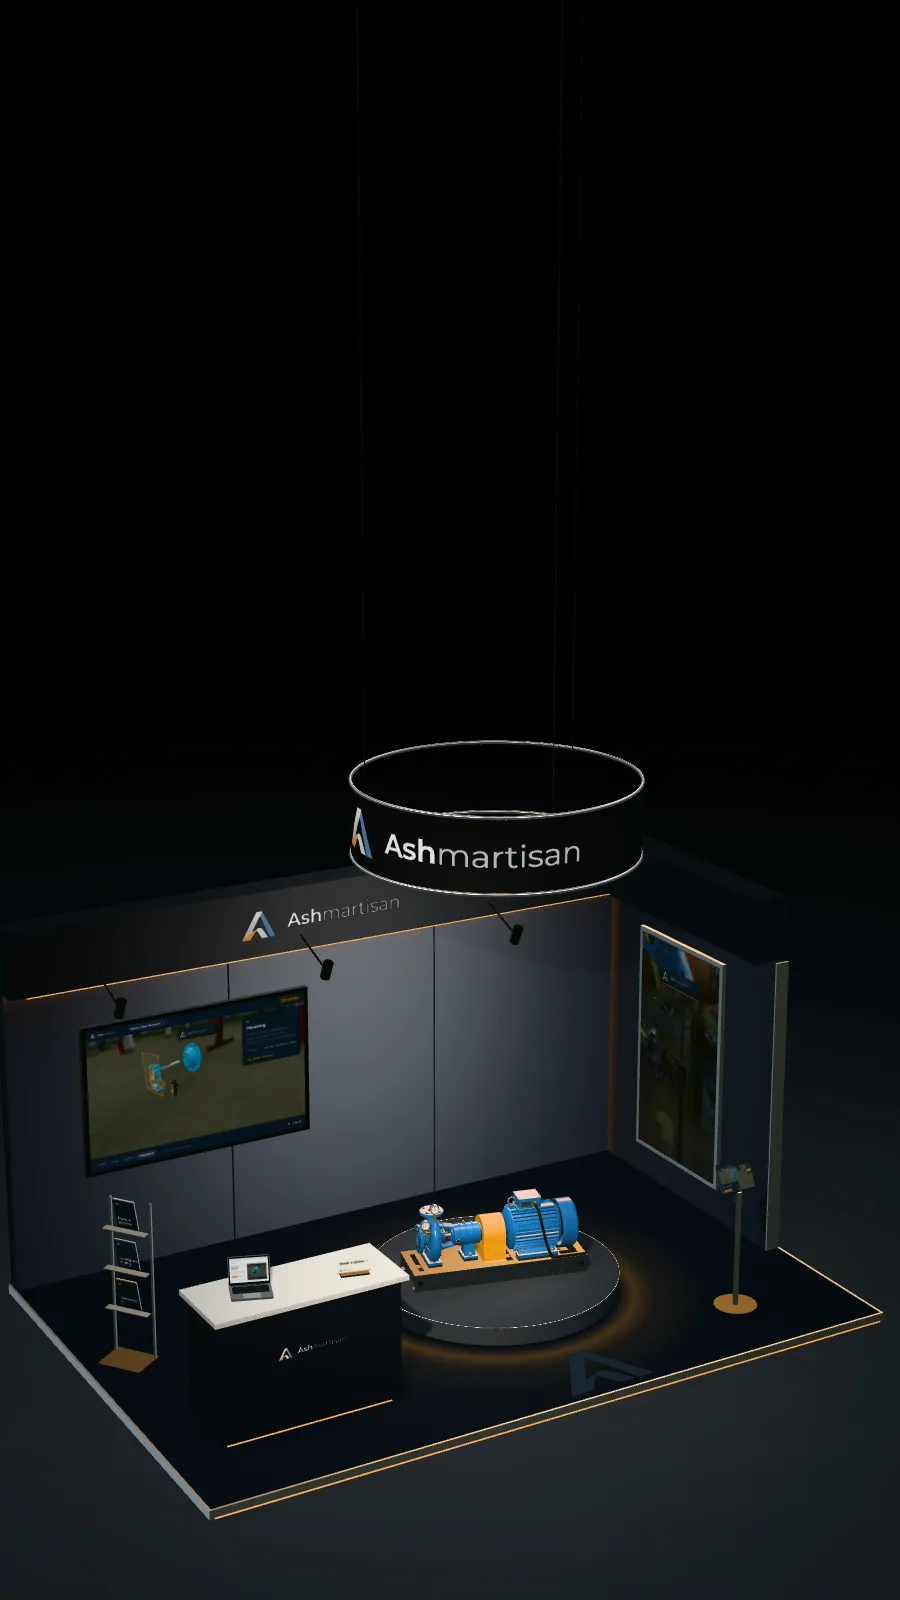
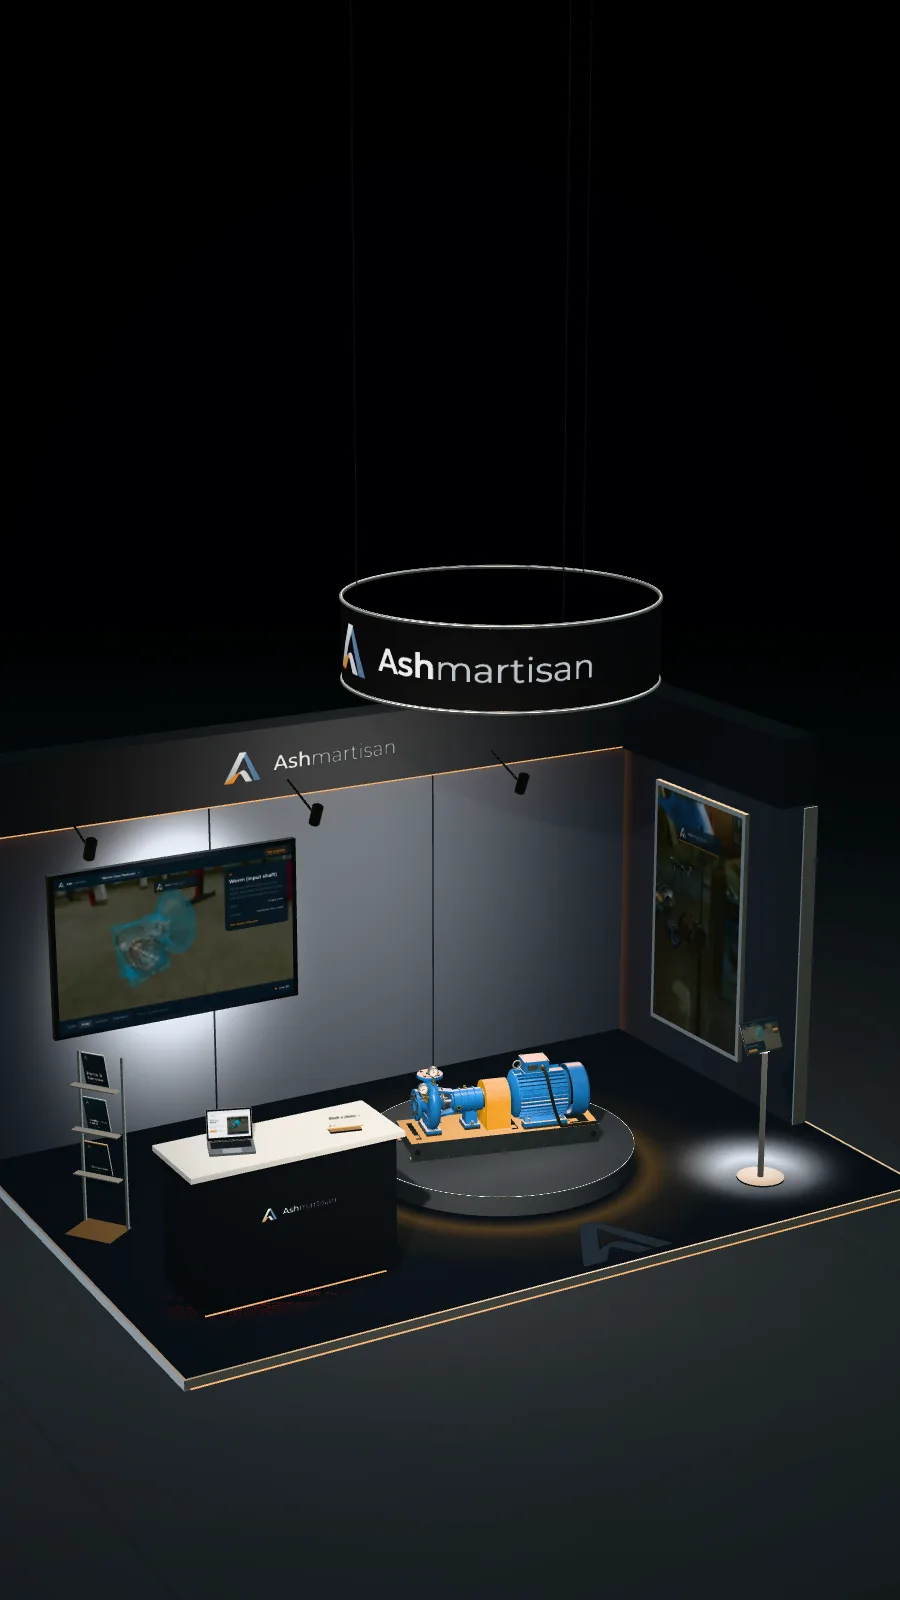
Hero booth: phone layout — booth leads, close-ups fit the width
- Phones show the headline and actions only; booth framed larger, mid-screen
- Close-ups back off on tall screens until the object spans the width (per-spot widths)
- No scrim over a close-up; slimmer two-line card with side-by-side actions
- Fix brochure titles splitting on "s" (regex lost its backslash)
- Recapture the tall poster at the new framing

Changed region(s): [[0.0, 0.3438, 1.0, 0.9375], [0.2178, 0.9375, 0.28, 0.9688]]

diff --git a/src/studio/stage/scene.ts b/src/studio/stage/scene.ts
@@ -501,12 +501,15 @@ export async function createStage(canvas: HTMLCanvasElement, initial: StageConfi
     let fy: number;
     if (rig.focus) {
       desiredTarget.copyFrom(rig.focus.at);
-      radius = rig.focus.radius * rig.zoom;
+      // Frames are composed for a wide screen; a tall one is narrower, so back off until the
+      // object spans ~88% of the width, and lift it above the card.
+      const fit = rig.focus.width ? rig.focus.width / 0.88 / (2 * tanH) : rig.focus.radius * (0.6 / aspect);
+      radius = (wide ? rig.focus.radius : Math.max(rig.focus.radius, fit)) * rig.zoom;
       fx = wide ? 0.15 : 0;
-      fy = wide ? 0 : 0.17;
+      fy = wide ? 0 : 0.14;
     } else {
       // Overview: fit the booth (wide: in the right ~60%; tall: full width, lower half).
-      const needW = wide ? 13.2 : 7.4;
+      const needW = wide ? 13.2 : 6.8;
       const needH = 6.2;
       const overview = Math.max(needW / 2 / tanH, needH / 2 / tanV);
       const product = Math.max(rig.productSpan / Math.min(tanV, tanH), 2.2) * (wide ? 1.55 : 1.35);
@@ -514,7 +517,7 @@ export async function createStage(canvas: HTMLCanvasElement, initial: StageConfi
       radius = Math.exp(lerp(Math.log(overview), Math.log(product), e)) * rig.zoom * rig.introZoom;
       fx = wide ? lerp(0.215, 0.2, e) : 0;
       // Tall screens: booth below the headline, then the exhibit above the exhibit card.
-      fy = wide ? lerp(0, -0.02, e) : lerp(-0.2, 0.21, e);
+      fy = wide ? lerp(0, -0.02, e) : lerp(-0.11, 0.21, e);
     }
 
     // Orbit offsets: an idle sway, and the pointer leaning the view (subtler when focused).
@@ -636,6 +639,7 @@ export async function createStage(canvas: HTMLCanvasElement, initial: StageConfi
   const exhibitFrame = (): SpotFrame => ({
     at: rig.productTarget.clone(),
     radius: Math.max(rig.productSpan, 0.75) * 3.1,
+    width: rig.productSpan * 2,
     alpha: REST_ALPHA + 0.2,
     beta: 1.26,
   });

diff --git a/src/studio/styles/studio.css b/src/studio/styles/studio.css
@@ -1610,6 +1610,73 @@ p {
   .booth-hero.is-open .booth-hero__scrim {
     opacity: 0.2;
   }
+
+  /* The booth leads on a phone: headline and actions only, the lead is for the wide layout. */
+  .booth-hero .eyebrow:not(.booth-hero__card .eyebrow, .booth-hero__exhibit .eyebrow),
+  .booth-hero .hero__lead {
+    display: none;
+  }
+
+  .booth-hero h1 {
+    margin-bottom: 18px;
+    font-size: clamp(1.75rem, 7.4vw, 2.2rem);
+  }
+
+  .booth-hero__scrim {
+    background:
+      linear-gradient(180deg, rgba(var(--hall-rgb), 0.9) 0%, rgba(var(--hall-rgb), 0.55) 26%, rgba(var(--hall-rgb), 0) 40%),
+      linear-gradient(0deg, var(--navy) 0, rgba(22, 32, 42, 0) 12%);
+  }
+
+  /* In a close-up the object is the point: no shade over it, and a slim card under it. */
+  .booth-hero.is-focus .booth-hero__scrim {
+    opacity: 0;
+  }
+
+  .booth-hero__card {
+    margin-bottom: 76px;
+    padding: 14px 16px;
+    border-radius: 14px;
+    background: rgba(14, 21, 28, 0.5);
+  }
+
+  .booth-hero__card .eyebrow {
+    margin-bottom: 6px;
+    font-size: 10px;
+  }
+
+  .booth-hero__card .booth-hero__exhibit-name {
+    margin-bottom: 4px;
+    font-size: 1.15rem;
+  }
+
+  .booth-hero__card .booth-hero__exhibit-text {
+    display: -webkit-box;
+    overflow: hidden;
+    margin-bottom: 12px;
+    font-size: 13px;
+    line-height: 1.5;
+    -webkit-line-clamp: 2;
+    -webkit-box-orient: vertical;
+  }
+
+  .booth-hero__card .actions {
+    flex-wrap: nowrap;
+    gap: 8px;
+  }
+
+  .booth-hero__card .actions .btn {
+    flex: 0 1 auto;
+    width: auto;
+    min-width: 0;
+    padding: 9px 12px;
+    font-size: 12.5px;
+    white-space: nowrap;
+  }
+
+  .booth-hero__layout {
+    grid-template-columns: minmax(0, 1fr);
+  }
 }
 
 /* ---------- App window (hero teaser) ---------- */

diff --git a/src/studio/stage/booth.ts b/src/studio/stage/booth.ts
@@ -47,6 +47,8 @@ export interface SpotFrame {
   /** Where the marker sits, when not on the object itself (beside a screen, not over it). */
   marker?: Vector3;
   radius: number;
+  /** The object's width (m): a narrow screen backs off until it fits. */
+  width?: number;
   alpha: number;
   beta: number;
 }
@@ -624,17 +626,18 @@ export function buildBooth(scene: Scene, url: (path: string) => string) {
     return Vector3.TransformCoordinates(local, node.getWorldMatrix());
   };
   const spots: Record<Exclude<SpotId, "exhibit">, SpotFrame> = {
-    screen: { at: SCREEN.clone(), marker: SCREEN.add(new Vector3(1.12, 0.62, 0)), radius: 3.2, alpha: FRONT - 0.12, beta: 1.47 },
+    screen: { at: SCREEN.clone(), marker: SCREEN.add(new Vector3(1.12, 0.62, 0)), radius: 3.2, width: 2.08, alpha: FRONT - 0.12, beta: 1.47 },
     tablet: {
       at: world(head, new Vector3(0, 0.11, 0)),
       marker: world(head, new Vector3(0.27, 0.22, 0)),
       radius: 0.68,
+      width: TABLET.w,
       alpha: FRONT + 0.12,
       beta: 1.14,
     },
-    laptop: { at: world(lid, new Vector3(0, 0.1, 0)), radius: 1.05, alpha: FRONT - 0.42, beta: 1.2 },
-    brochures: { at: RACK.add(new Vector3(0, 0.9, 0)), radius: 1.75, alpha: FRONT - 0.9, beta: 1.3 },
-    contact: { at: world(deskSign, new Vector3(0, 0.08, 0)), radius: 1.0, alpha: FRONT - 0.22, beta: 1.26 },
+    laptop: { at: world(lid, new Vector3(0, 0.1, 0)), radius: 1.05, width: 0.36, alpha: FRONT - 0.42, beta: 1.2 },
+    brochures: { at: RACK.add(new Vector3(0, 0.9, 0)), radius: 1.75, width: 0.95, alpha: FRONT - 0.9, beta: 1.3 },
+    contact: { at: world(deskSign, new Vector3(0, 0.08, 0)), radius: 1.0, width: 0.32, alpha: FRONT - 0.22, beta: 1.26 },
   };
 
   return {

diff --git a/src/studio/stage/screens.ts b/src/studio/stage/screens.ts
@@ -414,7 +414,7 @@ function drawBrochures(ctx: Ctx, modules: string[]) {
     ctx.fillRect(x, 0, w, H * 0.035);
     drawMark(ctx, x + pad, H * 0.11, H * 0.1, "onDark");
     // The title fills the width without breaking a word: shrink until the longest word fits.
-    const words = /[　-鿿]/.test(name) ? [...name] : name.split(/s+/);
+    const words = /[　-鿿]/.test(name) ? [...name] : name.split(/\s+/);
     let size = H * 0.13;
     ctx.font = font(700, size);
     while (size > H * 0.06 && Math.max(...words.map((word) => ctx.measureText(word).width)) > maxW) {
